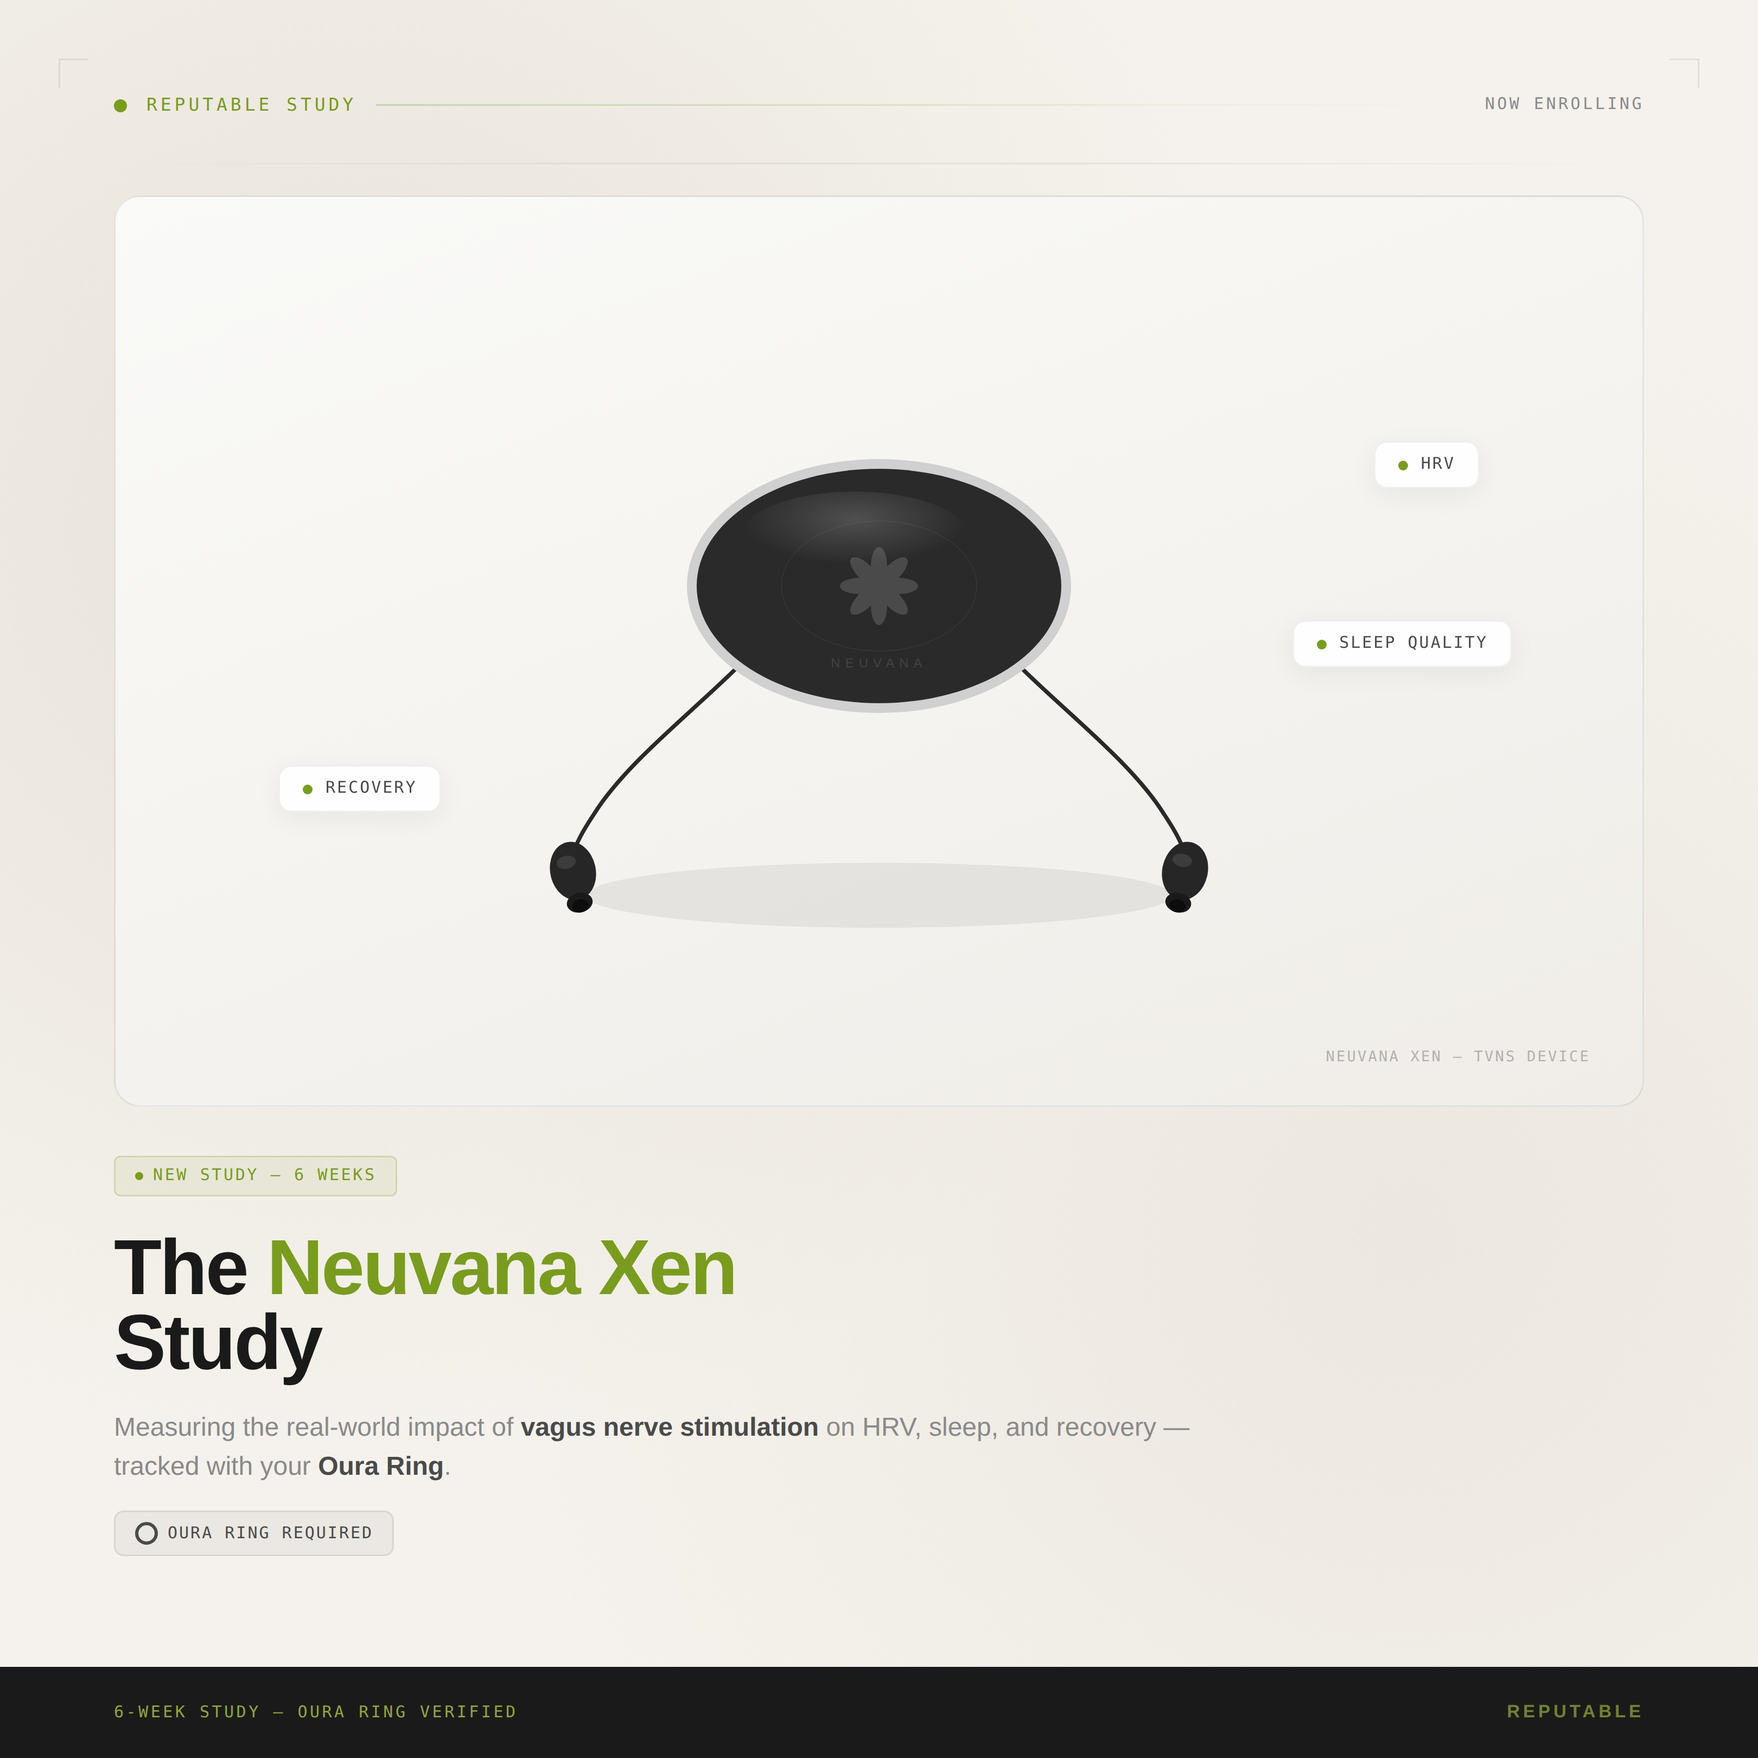
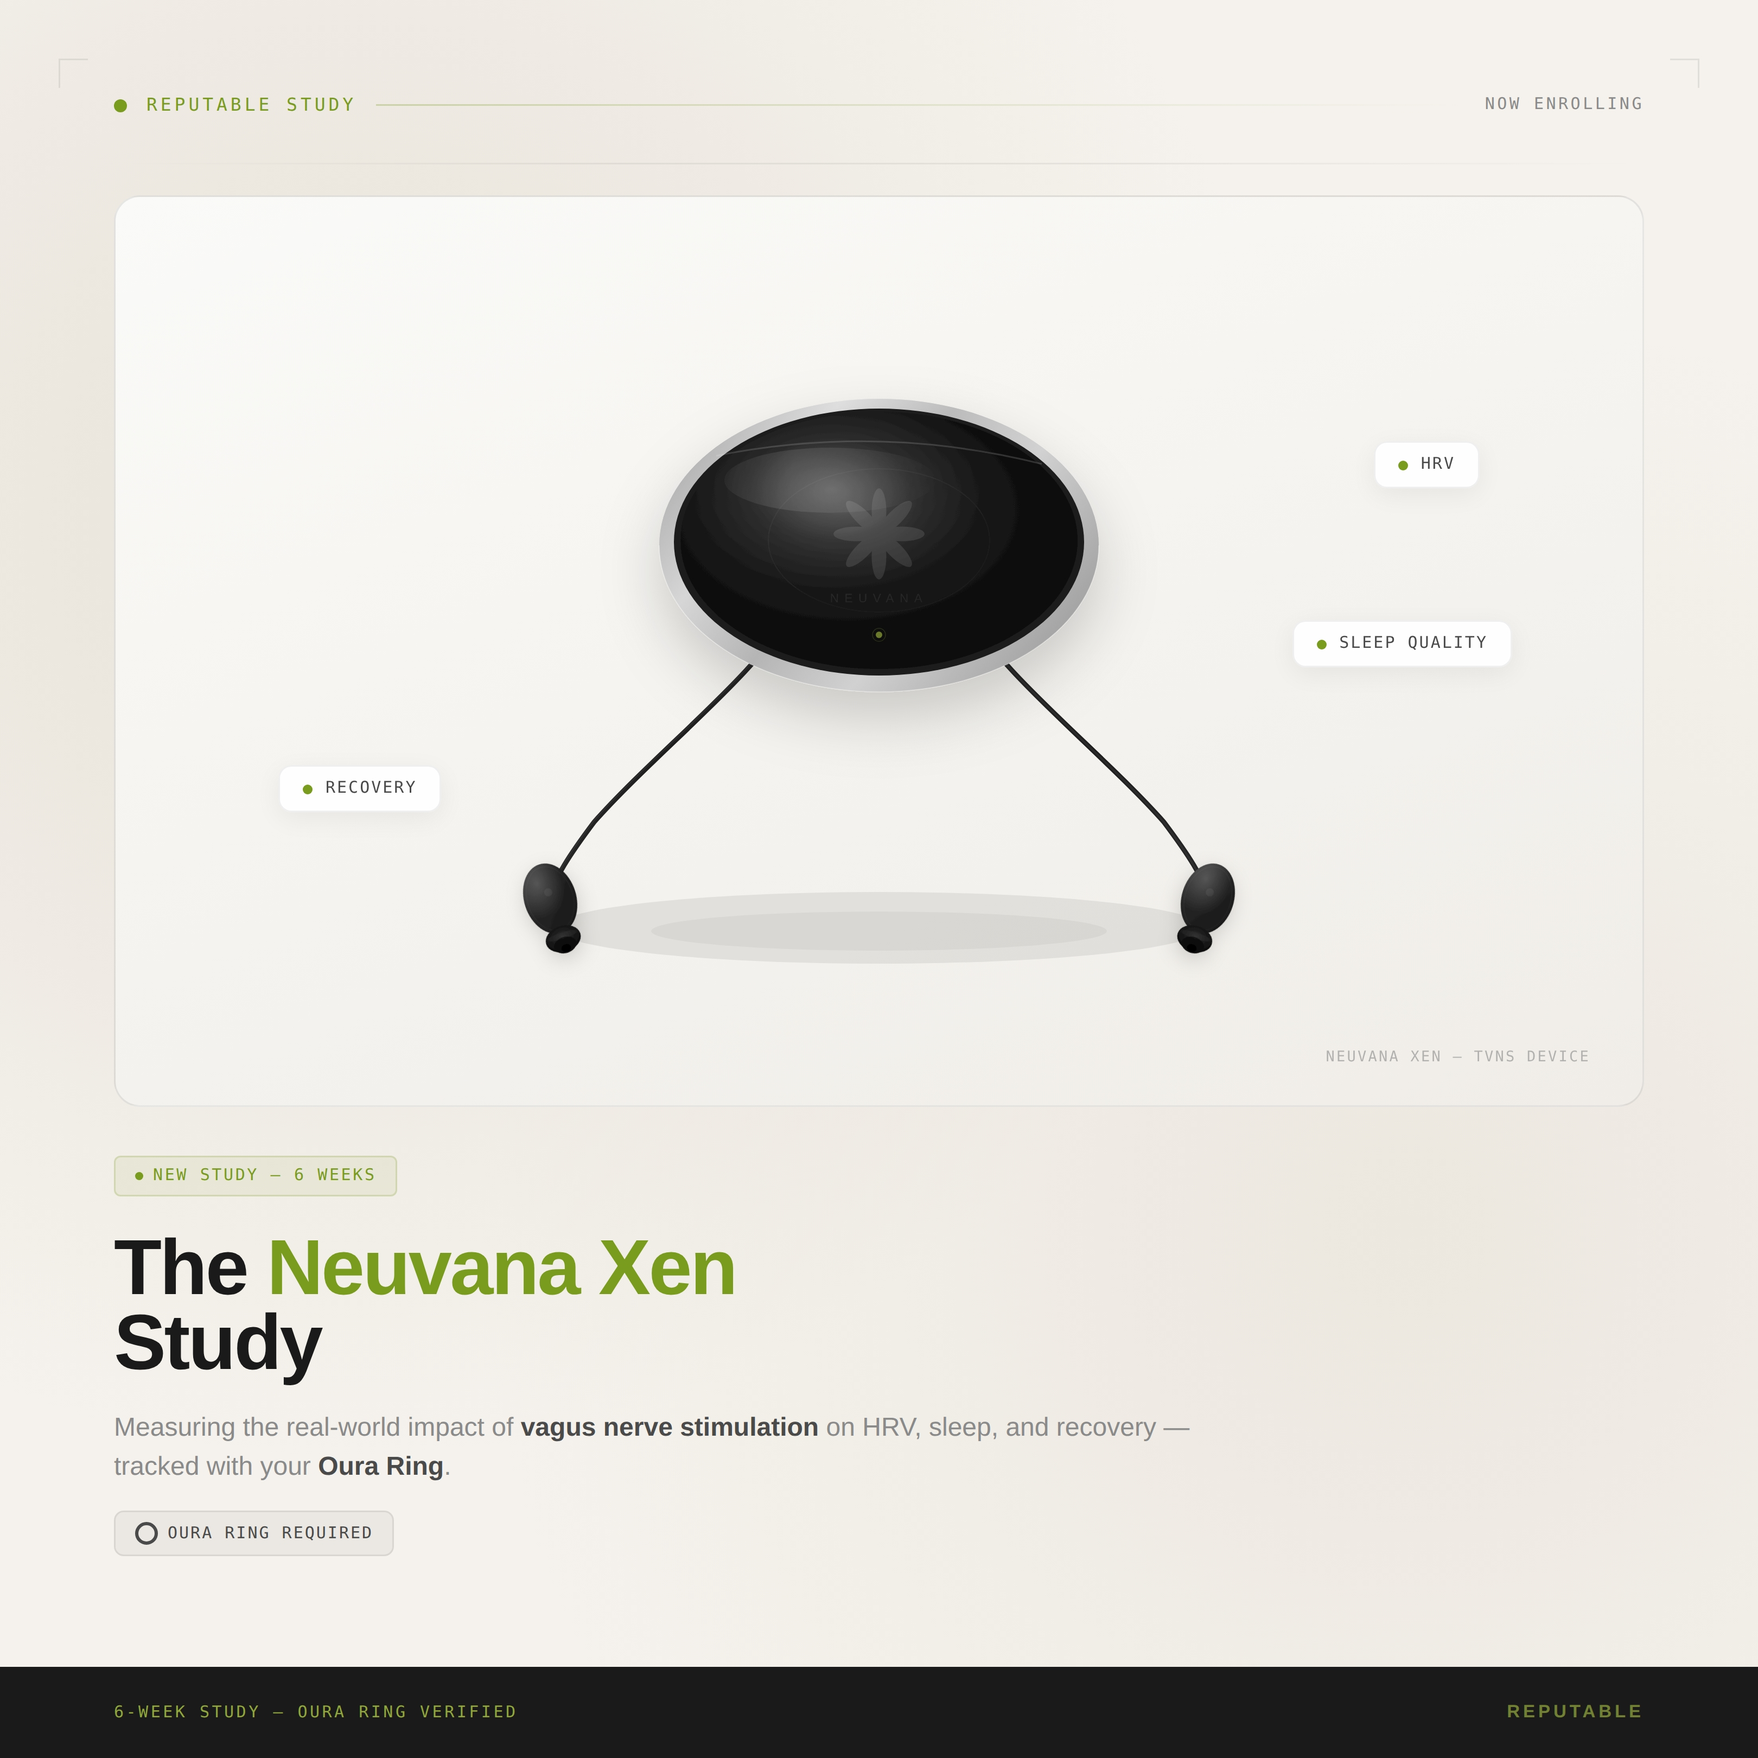
Rebuild Xen device SVG with photorealistic detail
- Multi-stop chrome rim gradient for brushed metal look
- Radial black face gradient with crescent gloss reflection
- SVG filter-based drop shadows on puck and earbuds
- Detailed teardrop earbuds with silicone tips and bore
- Cable highlight strokes and proper catenary curves
- Subtle lotus logo, NEUVANA text, and LED indicator

https://claude.ai/code/session_01TfrrBTyPYsf3Z7Zsrx7aQ5

diff --git a/neuvana-xen-01.html b/neuvana-xen-01.html
@@ -302,95 +302,209 @@
 
   <!-- Product image area with accurate Xen SVG -->
   <div class="product-area">
-    <svg width="540" height="420" viewBox="0 0 540 420" fill="none" xmlns="http://www.w3.org/2000/svg">
-      <!-- Shadow under device -->
-      <ellipse cx="270" cy="360" rx="180" ry="20" fill="rgba(0,0,0,0.06)"/>
-
-      <!-- Left cable from puck to left earbud -->
-      <path d="M 205,195 C 180,230 120,270 95,310 C 85,325 80,335 82,345" stroke="#2a2a2a" stroke-width="2.5" fill="none" stroke-linecap="round"/>
-      <!-- Right cable from puck to right earbud -->
-      <path d="M 335,195 C 360,230 420,270 445,310 C 455,325 460,335 458,345" stroke="#2a2a2a" stroke-width="2.5" fill="none" stroke-linecap="round"/>
-
-      <!-- ═══ MAIN PUCK BODY — Glossy black oval with chrome rim ═══ -->
-      <!-- Chrome/silver outer rim -->
-      <ellipse cx="270" cy="170" rx="118" ry="78" fill="url(#chromeRim)"/>
-      <!-- Black glossy face -->
-      <ellipse cx="270" cy="170" rx="112" ry="72" fill="url(#blackFace)"/>
-      <!-- Top gloss reflection -->
-      <ellipse cx="255" cy="140" rx="70" ry="28" fill="url(#glossShine)" opacity="0.5"/>
-      <!-- Subtle inner ring -->
-      <ellipse cx="270" cy="170" rx="60" ry="40" stroke="rgba(255,255,255,0.06)" stroke-width="0.5" fill="none"/>
-
-      <!-- Lotus/flower logo in center -->
-      <g transform="translate(270,170)" opacity="0.15">
-        <!-- Center petal (top) -->
-        <ellipse cx="0" cy="-12" rx="5" ry="12" fill="white" transform="rotate(0)"/>
-        <!-- Petal right -->
-        <ellipse cx="0" cy="-12" rx="5" ry="12" fill="white" transform="rotate(45)"/>
-        <!-- Petal far right -->
-        <ellipse cx="0" cy="-12" rx="5" ry="12" fill="white" transform="rotate(90)"/>
-        <!-- Petal bottom right -->
-        <ellipse cx="0" cy="-12" rx="5" ry="12" fill="white" transform="rotate(135)"/>
-        <!-- Petal bottom -->
-        <ellipse cx="0" cy="-12" rx="5" ry="12" fill="white" transform="rotate(180)"/>
-        <!-- Petal bottom left -->
-        <ellipse cx="0" cy="-12" rx="5" ry="12" fill="white" transform="rotate(225)"/>
-        <!-- Petal far left -->
-        <ellipse cx="0" cy="-12" rx="5" ry="12" fill="white" transform="rotate(270)"/>
-        <!-- Petal left -->
-        <ellipse cx="0" cy="-12" rx="5" ry="12" fill="white" transform="rotate(315)"/>
-        <!-- Center dot -->
-        <circle cx="0" cy="0" r="3" fill="white"/>
-      </g>
-
-      <!-- ═══ LEFT EARBUD — Black in-ear style ═══ -->
-      <g transform="translate(82, 345) rotate(-12)">
-        <!-- Earbud body -->
-        <ellipse cx="0" cy="0" rx="14" ry="18" fill="url(#earbudBlack)"/>
-        <!-- Glossy highlight -->
-        <ellipse cx="-3" cy="-6" rx="6" ry="4" fill="rgba(255,255,255,0.1)"/>
-        <!-- Ear tip (black silicone) -->
-        <ellipse cx="0" cy="20" rx="8" ry="6" fill="#1a1a1a"/>
-        <ellipse cx="0" cy="22" rx="5" ry="4" fill="#0d0d0d"/>
-      </g>
-
-      <!-- ═══ RIGHT EARBUD — Black in-ear style ═══ -->
-      <g transform="translate(458, 345) rotate(12)">
-        <!-- Earbud body -->
-        <ellipse cx="0" cy="0" rx="14" ry="18" fill="url(#earbudBlack)"/>
-        <!-- Glossy highlight -->
-        <ellipse cx="-3" cy="-6" rx="6" ry="4" fill="rgba(255,255,255,0.1)"/>
-        <!-- Ear tip (black silicone) -->
-        <ellipse cx="0" cy="20" rx="8" ry="6" fill="#1a1a1a"/>
-        <ellipse cx="0" cy="22" rx="5" ry="4" fill="#0d0d0d"/>
-      </g>
-
-      <!-- "neuvana" text on puck (very subtle) -->
-      <text x="270" y="220" text-anchor="middle" font-family="'Helvetica Neue', Arial, sans-serif" font-size="8" font-weight="300" letter-spacing="3" fill="rgba(255,255,255,0.12)" text-transform="uppercase">NEUVANA</text>
-
-      <!-- Gradient definitions -->
+    <svg width="620" height="480" viewBox="0 0 620 480" fill="none" xmlns="http://www.w3.org/2000/svg">
       <defs>
-        <linearGradient id="chromeRim" x1="152" y1="92" x2="388" y2="248">
-          <stop offset="0%" stop-color="#d0d0d0"/>
-          <stop offset="30%" stop-color="#b8b8b8"/>
-          <stop offset="50%" stop-color="#e8e8e8"/>
-          <stop offset="70%" stop-color="#a0a0a0"/>
+        <!-- Chrome rim gradient — multi-stop for brushed metal look -->
+        <linearGradient id="chromeRim" x1="160" y1="60" x2="460" y2="300" gradientUnits="userSpaceOnUse">
+          <stop offset="0%" stop-color="#c8c8c8"/>
+          <stop offset="15%" stop-color="#a8a8a8"/>
+          <stop offset="30%" stop-color="#e0e0e0"/>
+          <stop offset="45%" stop-color="#b0b0b0"/>
+          <stop offset="60%" stop-color="#d8d8d8"/>
+          <stop offset="80%" stop-color="#9a9a9a"/>
+          <stop offset="100%" stop-color="#b8b8b8"/>
+        </linearGradient>
+
+        <!-- Chrome edge highlight (top) -->
+        <linearGradient id="chromeTop" x1="310" y1="60" x2="310" y2="120" gradientUnits="userSpaceOnUse">
+          <stop offset="0%" stop-color="#f0f0f0"/>
           <stop offset="100%" stop-color="#c0c0c0"/>
         </linearGradient>
-        <linearGradient id="blackFace" x1="158" y1="98" x2="382" y2="242">
-          <stop offset="0%" stop-color="#2a2a2a"/>
-          <stop offset="40%" stop-color="#1a1a1a"/>
-          <stop offset="100%" stop-color="#0f0f0f"/>
+
+        <!-- Chrome edge shadow (bottom) -->
+        <linearGradient id="chromeBot" x1="310" y1="260" x2="310" y2="300" gradientUnits="userSpaceOnUse">
+          <stop offset="0%" stop-color="#888"/>
+          <stop offset="100%" stop-color="#666"/>
         </linearGradient>
-        <radialGradient id="glossShine" cx="50%" cy="30%">
-          <stop offset="0%" stop-color="rgba(255,255,255,0.35)"/>
+
+        <!-- Black glossy face gradient -->
+        <radialGradient id="blackFace" cx="42%" cy="38%" r="55%">
+          <stop offset="0%" stop-color="#2e2e2e"/>
+          <stop offset="35%" stop-color="#1e1e1e"/>
+          <stop offset="70%" stop-color="#141414"/>
+          <stop offset="100%" stop-color="#0a0a0a"/>
+        </radialGradient>
+
+        <!-- Main gloss reflection (top-left crescent) -->
+        <radialGradient id="glossMain" cx="38%" cy="30%" r="40%">
+          <stop offset="0%" stop-color="rgba(255,255,255,0.28)"/>
+          <stop offset="50%" stop-color="rgba(255,255,255,0.08)"/>
           <stop offset="100%" stop-color="rgba(255,255,255,0)"/>
         </radialGradient>
-        <linearGradient id="earbudBlack" x1="0" y1="-18" x2="0" y2="18">
-          <stop offset="0%" stop-color="#333"/>
-          <stop offset="100%" stop-color="#1a1a1a"/>
+
+        <!-- Secondary edge reflection -->
+        <linearGradient id="glossEdge" x1="200" y1="100" x2="350" y2="130" gradientUnits="userSpaceOnUse">
+          <stop offset="0%" stop-color="rgba(255,255,255,0)"/>
+          <stop offset="40%" stop-color="rgba(255,255,255,0.18)"/>
+          <stop offset="60%" stop-color="rgba(255,255,255,0.12)"/>
+          <stop offset="100%" stop-color="rgba(255,255,255,0)"/>
         </linearGradient>
+
+        <!-- Earbud body gradient -->
+        <linearGradient id="budBody" x1="0" y1="0" x2="1" y2="1">
+          <stop offset="0%" stop-color="#3a3a3a"/>
+          <stop offset="40%" stop-color="#252525"/>
+          <stop offset="100%" stop-color="#151515"/>
+        </linearGradient>
+
+        <!-- Earbud gloss -->
+        <radialGradient id="budGloss" cx="35%" cy="25%" r="50%">
+          <stop offset="0%" stop-color="rgba(255,255,255,0.2)"/>
+          <stop offset="100%" stop-color="rgba(255,255,255,0)"/>
+        </radialGradient>
+
+        <!-- Silicone tip gradient -->
+        <radialGradient id="tipGrad" cx="50%" cy="40%" r="55%">
+          <stop offset="0%" stop-color="#2a2a2a"/>
+          <stop offset="100%" stop-color="#0e0e0e"/>
+        </radialGradient>
+
+        <!-- Cable gradient -->
+        <linearGradient id="cableGrad" x1="0" y1="0" x2="0" y2="1">
+          <stop offset="0%" stop-color="#282828"/>
+          <stop offset="50%" stop-color="#1e1e1e"/>
+          <stop offset="100%" stop-color="#282828"/>
+        </linearGradient>
+
+        <!-- Soft shadow filter -->
+        <filter id="softShadow" x="-20%" y="-20%" width="140%" height="160%">
+          <feGaussianBlur in="SourceAlpha" stdDeviation="12" result="blur"/>
+          <feOffset dx="0" dy="8" result="shifted"/>
+          <feFlood flood-color="#000" flood-opacity="0.12" result="color"/>
+          <feComposite in="color" in2="shifted" operator="in" result="shadow"/>
+          <feMerge><feMergeNode in="shadow"/><feMergeNode in="SourceGraphic"/></feMerge>
+        </filter>
+
+        <!-- Puck drop shadow -->
+        <filter id="puckShadow" x="-30%" y="-20%" width="160%" height="180%">
+          <feGaussianBlur in="SourceAlpha" stdDeviation="18" result="blur"/>
+          <feOffset dx="0" dy="16" result="shifted"/>
+          <feFlood flood-color="#000" flood-opacity="0.18" result="color"/>
+          <feComposite in="color" in2="shifted" operator="in" result="shadow"/>
+          <feMerge><feMergeNode in="shadow"/><feMergeNode in="SourceGraphic"/></feMerge>
+        </filter>
+
+        <!-- Earbud shadow -->
+        <filter id="budShadow" x="-40%" y="-30%" width="180%" height="180%">
+          <feGaussianBlur in="SourceAlpha" stdDeviation="6" result="blur"/>
+          <feOffset dx="0" dy="4" result="shifted"/>
+          <feFlood flood-color="#000" flood-opacity="0.15" result="color"/>
+          <feComposite in="color" in2="shifted" operator="in" result="shadow"/>
+          <feMerge><feMergeNode in="shadow"/><feMergeNode in="SourceGraphic"/></feMerge>
+        </filter>
       </defs>
+
+      <!-- ═══ GROUND SHADOW ═══ -->
+      <ellipse cx="310" cy="410" rx="200" ry="22" fill="rgba(0,0,0,0.07)"/>
+      <ellipse cx="310" cy="412" rx="140" ry="12" fill="rgba(0,0,0,0.04)"/>
+
+      <!-- ═══ CABLES ═══ -->
+      <!-- Left cable — slight catenary curve -->
+      <path d="M 255,215 C 240,250 175,300 135,345 C 120,365 110,380 108,392"
+            stroke="url(#cableGrad)" stroke-width="3" fill="none" stroke-linecap="round"/>
+      <!-- Cable highlight -->
+      <path d="M 255,215 C 240,250 175,300 135,345 C 120,365 110,380 108,392"
+            stroke="rgba(255,255,255,0.06)" stroke-width="1" fill="none" stroke-linecap="round"
+            stroke-dasharray="0" transform="translate(-0.5,-0.5)"/>
+
+      <!-- Right cable -->
+      <path d="M 365,215 C 380,250 445,300 485,345 C 500,365 510,380 512,392"
+            stroke="url(#cableGrad)" stroke-width="3" fill="none" stroke-linecap="round"/>
+      <path d="M 365,215 C 380,250 445,300 485,345 C 500,365 510,380 512,392"
+            stroke="rgba(255,255,255,0.06)" stroke-width="1" fill="none" stroke-linecap="round"
+            transform="translate(-0.5,-0.5)"/>
+
+      <!-- ═══ MAIN PUCK — Glossy black oval, chrome rim ═══ -->
+      <g filter="url(#puckShadow)">
+        <!-- Chrome outer rim (3D beveled) -->
+        <ellipse cx="310" cy="175" rx="135" ry="90" fill="url(#chromeRim)"/>
+        <!-- Chrome top edge highlight -->
+        <ellipse cx="310" cy="175" rx="135" ry="90" fill="url(#chromeTop)" opacity="0.3"/>
+        <!-- Chrome bottom shadow -->
+        <path d="M 175,175 A 135,90 0 0,0 445,175" fill="none" stroke="rgba(255,255,255,0.25)" stroke-width="0.5"/>
+
+        <!-- Inner bevel/step -->
+        <ellipse cx="310" cy="173" rx="126" ry="82" fill="#1a1a1a"/>
+
+        <!-- Black glossy face -->
+        <ellipse cx="310" cy="172" rx="122" ry="79" fill="url(#blackFace)"/>
+
+        <!-- Primary gloss reflection — top-left crescent -->
+        <ellipse cx="310" cy="172" rx="122" ry="79" fill="url(#glossMain)"/>
+
+        <!-- Sharp edge gloss line across top -->
+        <path d="M 210,120 Q 310,100 410,125" stroke="rgba(255,255,255,0.15)" stroke-width="1" fill="none"/>
+
+        <!-- Secondary soft reflection arc -->
+        <ellipse cx="280" cy="135" rx="65" ry="20" fill="url(#glossEdge)" opacity="0.6"/>
+
+        <!-- Subtle ring detail on face -->
+        <ellipse cx="310" cy="172" rx="68" ry="44" stroke="rgba(255,255,255,0.04)" stroke-width="0.7" fill="none"/>
+
+        <!-- ═══ LOTUS LOGO — 8-petal flower ═══ -->
+        <g transform="translate(310,168)" opacity="0.1">
+          <ellipse cx="0" cy="-14" rx="4.5" ry="14" fill="white" transform="rotate(0)"/>
+          <ellipse cx="0" cy="-14" rx="4.5" ry="14" fill="white" transform="rotate(45)"/>
+          <ellipse cx="0" cy="-14" rx="4.5" ry="14" fill="white" transform="rotate(90)"/>
+          <ellipse cx="0" cy="-14" rx="4.5" ry="14" fill="white" transform="rotate(135)"/>
+          <ellipse cx="0" cy="-14" rx="4.5" ry="14" fill="white" transform="rotate(180)"/>
+          <ellipse cx="0" cy="-14" rx="4.5" ry="14" fill="white" transform="rotate(225)"/>
+          <ellipse cx="0" cy="-14" rx="4.5" ry="14" fill="white" transform="rotate(270)"/>
+          <ellipse cx="0" cy="-14" rx="4.5" ry="14" fill="white" transform="rotate(315)"/>
+          <circle cx="0" cy="0" r="3.5" fill="white"/>
+        </g>
+
+        <!-- "neuvana" brand text -->
+        <text x="310" y="210" text-anchor="middle" font-family="'Helvetica Neue', Arial, sans-serif"
+              font-size="7.5" font-weight="300" letter-spacing="3.5" fill="rgba(255,255,255,0.08)">NEUVANA</text>
+
+        <!-- LED indicator dot (small, on the face) -->
+        <circle cx="310" cy="230" r="2" fill="#c8e64a" opacity="0.5"/>
+        <circle cx="310" cy="230" r="4" fill="none" stroke="rgba(200,230,74,0.15)" stroke-width="0.5"/>
+      </g>
+
+      <!-- ═══ LEFT EARBUD ═══ -->
+      <g filter="url(#budShadow)" transform="translate(108, 392) rotate(-18)">
+        <!-- Earbud housing — teardrop/oval -->
+        <ellipse cx="0" cy="0" rx="16" ry="22" fill="url(#budBody)"/>
+        <!-- Gloss overlay -->
+        <ellipse cx="0" cy="0" rx="16" ry="22" fill="url(#budGloss)"/>
+        <!-- Housing seam line -->
+        <ellipse cx="0" cy="0" rx="14" ry="20" stroke="rgba(255,255,255,0.04)" stroke-width="0.5" fill="none"/>
+        <!-- Brand dot -->
+        <circle cx="0" cy="-4" r="2.5" fill="rgba(255,255,255,0.06)"/>
+
+        <!-- Silicone ear tip — mushroom shape -->
+        <ellipse cx="0" cy="26" rx="11" ry="8" fill="url(#tipGrad)"/>
+        <ellipse cx="0" cy="30" rx="7" ry="5" fill="#0a0a0a"/>
+        <!-- Tip bore (sound tube) -->
+        <ellipse cx="0" cy="32" rx="3" ry="2.5" fill="#050505"/>
+        <!-- Tip edge highlight -->
+        <ellipse cx="0" cy="24" rx="10" ry="2" fill="rgba(255,255,255,0.04)"/>
+      </g>
+
+      <!-- ═══ RIGHT EARBUD ═══ -->
+      <g filter="url(#budShadow)" transform="translate(512, 392) rotate(18)">
+        <ellipse cx="0" cy="0" rx="16" ry="22" fill="url(#budBody)"/>
+        <ellipse cx="0" cy="0" rx="16" ry="22" fill="url(#budGloss)"/>
+        <ellipse cx="0" cy="0" rx="14" ry="20" stroke="rgba(255,255,255,0.04)" stroke-width="0.5" fill="none"/>
+        <circle cx="0" cy="-4" r="2.5" fill="rgba(255,255,255,0.06)"/>
+
+        <ellipse cx="0" cy="26" rx="11" ry="8" fill="url(#tipGrad)"/>
+        <ellipse cx="0" cy="30" rx="7" ry="5" fill="#0a0a0a"/>
+        <ellipse cx="0" cy="32" rx="3" ry="2.5" fill="#050505"/>
+        <ellipse cx="0" cy="24" rx="10" ry="2" fill="rgba(255,255,255,0.04)"/>
+      </g>
     </svg>
 
     <div class="product-label">Neuvana Xen &mdash; tVNS Device</div>
